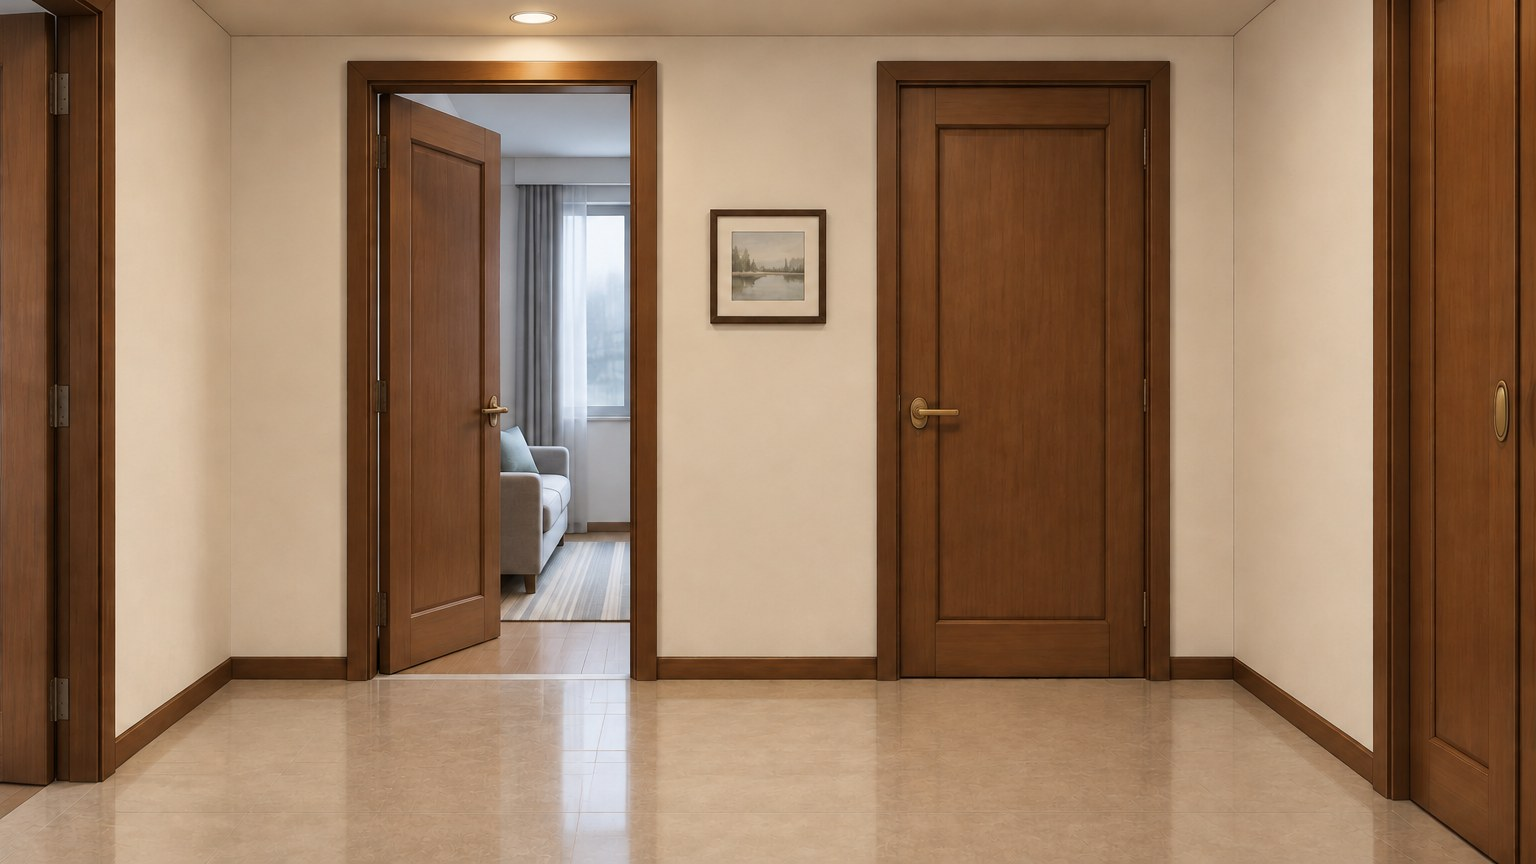
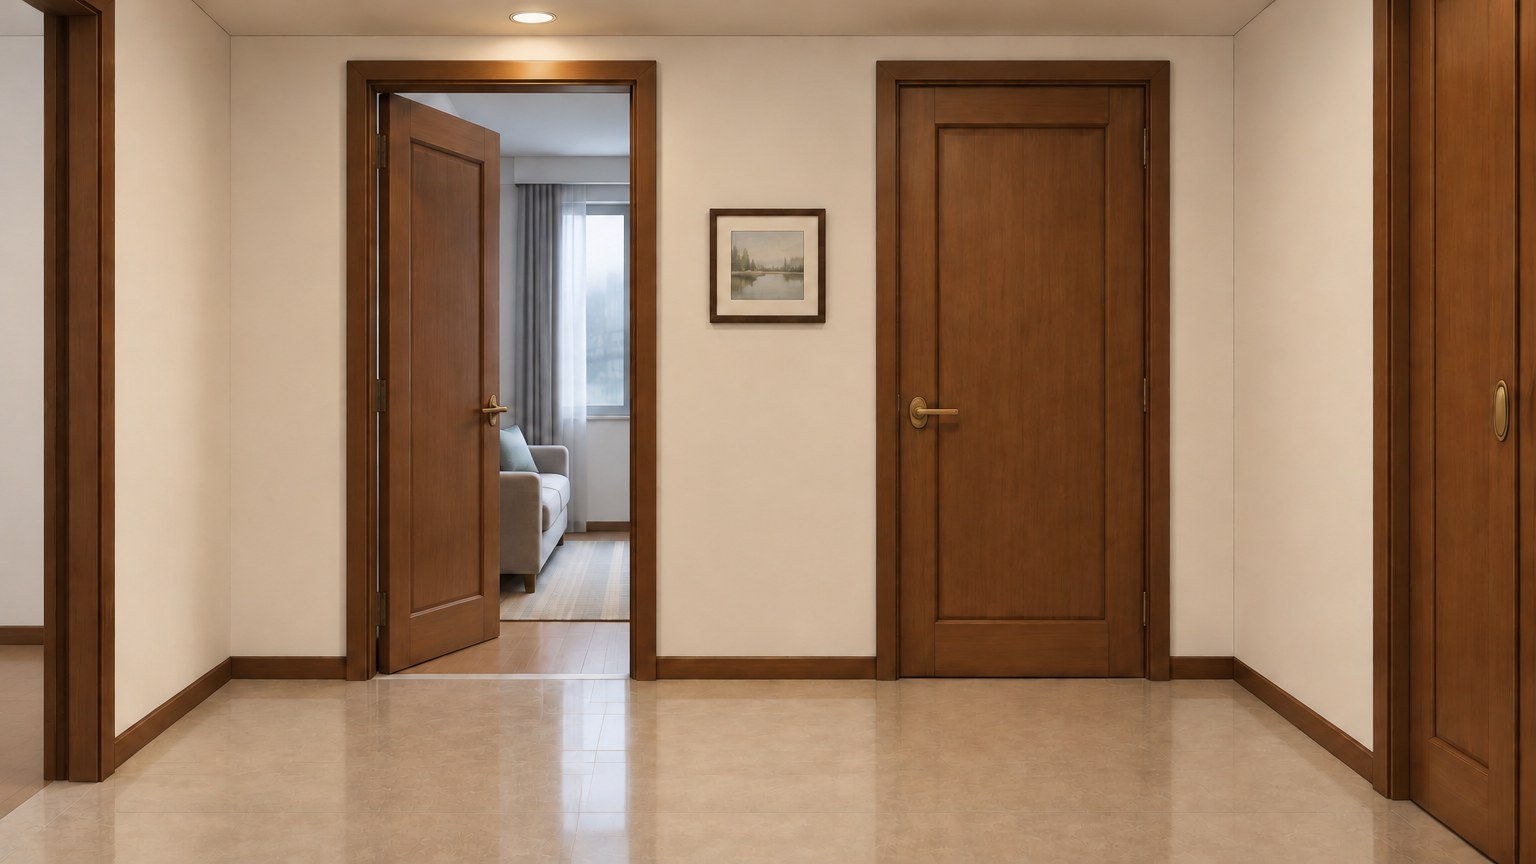
eval2: the corridor edit placed; the whole set walked pair by pair, all pass
Run room-eval2-redo4, 2.6¢: c2's left side wall shows the open
children's doorway frame, and the rug through Mary's door lies across
the view. The walk (checklist 75) recorded turn by turn, doorway by
doorway, with the floor and skirting, in the results folder; ledger
filled.

Claude-Session: https://claude.ai/code/session_01NNV6bKQQBQHSTRYcXaNkXH

diff --git a/levels/LEVEL-eval2.md b/levels/LEVEL-eval2.md
@@ -283,7 +283,7 @@ Points for the owner:
 - Play link (pinned to commit):
 - What is real: puzzle logic, inventory, hints, saves, doors, the ending; every wall, cut-out and close-up that already exists; the reward moments from the motion sheet, played in the right order with whatever stands in (playbook 4ab, 4ac)
 - What stands in: a labelled box or a crop lifted from a wall for each picture that does not exist yet; the moth's and Zaina's lines as text
-- Walls generated before this gate (only with the owner's agreed cost, playbook 4ac): the twelve walls of `evals/images/runs/room-eval2.json`, agreed by the owner on 25 Oct 2026 ("Do it", after the cost of about 30¢ and the rule that a puzzle change can send a wall back were put to him). Drawn the same day in run `2026-10-25-room-eval2` (GitHub Actions run 40159988883, artifact kept until 24 Nov 2026): all twelve first time, 41.5¢ billed, placed as `next/art/eval2/k1-k4, m1-m4, c1-c4.jpg`; scored in `evals/images/results/2026-10-25-room-eval2.scores.json`: all usable, the bedrooms in the signed-off style, the corridor's four more photographic than the rest (the owner's call on the tablet). The originals are in the run's artifact; the Drive copy is noted under 6b when made. **The owner's recorded review of the twelve (25 Oct 2026, 3 min; playbook 4ae): eight points, MOTH-94 to MOTH-101**, all on the walls' agreement with each other (a bunk on three walls, a sofa on two, a ladder at two ends, a narrow bed, curtains mid-wall, a stand facing the wrong way); praise for the bunk wall and the loft wall ("perfect") and the corridor ("fine"). Root cause: the specifications were written from the photographs' angles, not the floor plan. Fixed at the cause (the specifications corrected, `evals/images/roomcheck.py` added, checklist 68 and 69, playbook 4aa) and five walls redrawn in run `room-eval2-redo` (k1, k3, k4, m2, m4), the approved walls attached as their neighbours. The redraw (GitHub Actions run 40164148671, 20.9¢): all five first time, placed over the old ones in `next/art/eval2/`, scored in `evals/images/results/2026-10-25-room-eval2-redo.scores.json`; the rooms now turn as one room each. **The owner's second recorded review (25 Oct 2026, 2 min 25 s): four points, MOTH-102 to MOTH-105**: a curtain on the sofa wall's side, the ladder across the loft's end on the window wall, grey skirting in the corridor glimpses against the corridor's wood, and the children's door white and shut on the bunk wall's side. Fixed at the cause (the door labels and glimpses rewritten in the corridor's own words, the loft's size line naming the ladder's face, every palette naming its skirting; roomcheck.py extended; checklist 69 to 71) and five walls edited, not redrawn, in run `room-eval2-redo2` (m3, m2, m4, k2, k3). The edits (GitHub Actions run 40168652144, 10.0¢): all five landed first time with the rest of each picture unchanged; placed and scored in `evals/images/results/2026-10-25-room-eval2-redo2.scores.json`. **The owner's third recorded review (25 Oct 2026, 2 min 50 s): seven points, MOTH-106 to MOTH-112**: Mary's door swinging differently on two walls, the loft's ladder missing from the window wall (an overcorrection of MOTH-103), the rug's stripes the same way on all four walls, a jutting wall in the corridor, the corridor picture swapping sides of Mary's door, and the children's door half open on one wall and hinged on the wrong side from the corridor. **Claude's full consistency check** (every turn as a pair and every doorway, checklist 75) found four more: the sofa on the loft wall's left side wall, a pier in the window wall's corner, Mary's doorway showing a long corridor instead of the corridor's opposite wall, and the children's door shut on the corridor's west wall. Fixed at the cause (a plan block in each specification: doors, floor direction, flat walls, wall order; checklist 72 to 75) and nine walls edited in run `room-eval2-redo3` (m3, m2, m1, m4, c1, c2, c4, k2, k3).
+- Walls generated before this gate (only with the owner's agreed cost, playbook 4ac): the twelve walls of `evals/images/runs/room-eval2.json`, agreed by the owner on 25 Oct 2026 ("Do it", after the cost of about 30¢ and the rule that a puzzle change can send a wall back were put to him). Drawn the same day in run `2026-10-25-room-eval2` (GitHub Actions run 40159988883, artifact kept until 24 Nov 2026): all twelve first time, 41.5¢ billed, placed as `next/art/eval2/k1-k4, m1-m4, c1-c4.jpg`; scored in `evals/images/results/2026-10-25-room-eval2.scores.json`: all usable, the bedrooms in the signed-off style, the corridor's four more photographic than the rest (the owner's call on the tablet). The originals are in the run's artifact; the Drive copy is noted under 6b when made. **The owner's recorded review of the twelve (25 Oct 2026, 3 min; playbook 4ae): eight points, MOTH-94 to MOTH-101**, all on the walls' agreement with each other (a bunk on three walls, a sofa on two, a ladder at two ends, a narrow bed, curtains mid-wall, a stand facing the wrong way); praise for the bunk wall and the loft wall ("perfect") and the corridor ("fine"). Root cause: the specifications were written from the photographs' angles, not the floor plan. Fixed at the cause (the specifications corrected, `evals/images/roomcheck.py` added, checklist 68 and 69, playbook 4aa) and five walls redrawn in run `room-eval2-redo` (k1, k3, k4, m2, m4), the approved walls attached as their neighbours. The redraw (GitHub Actions run 40164148671, 20.9¢): all five first time, placed over the old ones in `next/art/eval2/`, scored in `evals/images/results/2026-10-25-room-eval2-redo.scores.json`; the rooms now turn as one room each. **The owner's second recorded review (25 Oct 2026, 2 min 25 s): four points, MOTH-102 to MOTH-105**: a curtain on the sofa wall's side, the ladder across the loft's end on the window wall, grey skirting in the corridor glimpses against the corridor's wood, and the children's door white and shut on the bunk wall's side. Fixed at the cause (the door labels and glimpses rewritten in the corridor's own words, the loft's size line naming the ladder's face, every palette naming its skirting; roomcheck.py extended; checklist 69 to 71) and five walls edited, not redrawn, in run `room-eval2-redo2` (m3, m2, m4, k2, k3). The edits (GitHub Actions run 40168652144, 10.0¢): all five landed first time with the rest of each picture unchanged; placed and scored in `evals/images/results/2026-10-25-room-eval2-redo2.scores.json`. **The owner's third recorded review (25 Oct 2026, 2 min 50 s): seven points, MOTH-106 to MOTH-112**: Mary's door swinging differently on two walls, the loft's ladder missing from the window wall (an overcorrection of MOTH-103), the rug's stripes the same way on all four walls, a jutting wall in the corridor, the corridor picture swapping sides of Mary's door, and the children's door half open on one wall and hinged on the wrong side from the corridor. **Claude's full consistency check** (every turn as a pair and every doorway, checklist 75) found four more: the sofa on the loft wall's left side wall, a pier in the window wall's corner, Mary's doorway showing a long corridor instead of the corridor's opposite wall, and the children's door shut on the corridor's west wall. Fixed at the cause (a plan block in each specification: doors, floor direction, flat walls, wall order; checklist 72 to 75) and nine walls edited in run `room-eval2-redo3` (m3, m2, m1, m4, c1, c2, c4, k2, k3). All nine landed (24.9¢); the walk after them found one corridor turn still disagreeing, edited in `room-eval2-redo4` (2.6¢). **The whole set walked pair by pair, every turn, every doorway, the floor and the skirting: all pass** (`evals/images/results/2026-10-25-room-eval2-walk.json`).
 
 Tests: scripted playthrough passes · audit clean · no soft-lock (checklist 42) · owner played it on the tablet at 2000×700 · played once on a real Android phone (checklist 44) · reduced motion checked
 Result:
@@ -308,7 +308,7 @@ Signed off:
 | walls before Gate C | ~30¢ (two rooms and the corridor, twelve walls on Sunburst) | 41.5¢ | 0 | twelve first time; the estimate used the kitchen run's per-wall price and the chained walls cost more (up to 5.6¢ with three references attached) |
 | walls redrawn after the owner's review | ~15¢ | 20.9¢ | 5 | MOTH-94 to MOTH-101: the specifications placed neighbouring walls' things on the wrong walls; corrected from the floor plan, with a compass check added so it does not happen again |
 | walls edited after the owner's second review | ~15¢ | 10.0¢ | 5 | MOTH-102 to MOTH-105: doors, glimpses, a ladder's face, a stray curtain; the approved pictures edited with one change each |
-| walls edited after the owner's third review and Claude's check | ~25¢ | | 9 | MOTH-106 to MOTH-112 and four faults from the full check: door swings, ladder, rug direction, corridor shape and order, glimpses |
+| walls edited after the owner's third review and Claude's check | ~25¢ | 27.5¢ | 10 | MOTH-106 to MOTH-112 and four faults from the full check: door swings, ladder, rug direction, corridor shape and order, glimpses |
 | 6b batch | ~20¢ (about twenty cut-outs, close-ups and icons) | | | |
 | Total | ~50¢ | | | |
 
